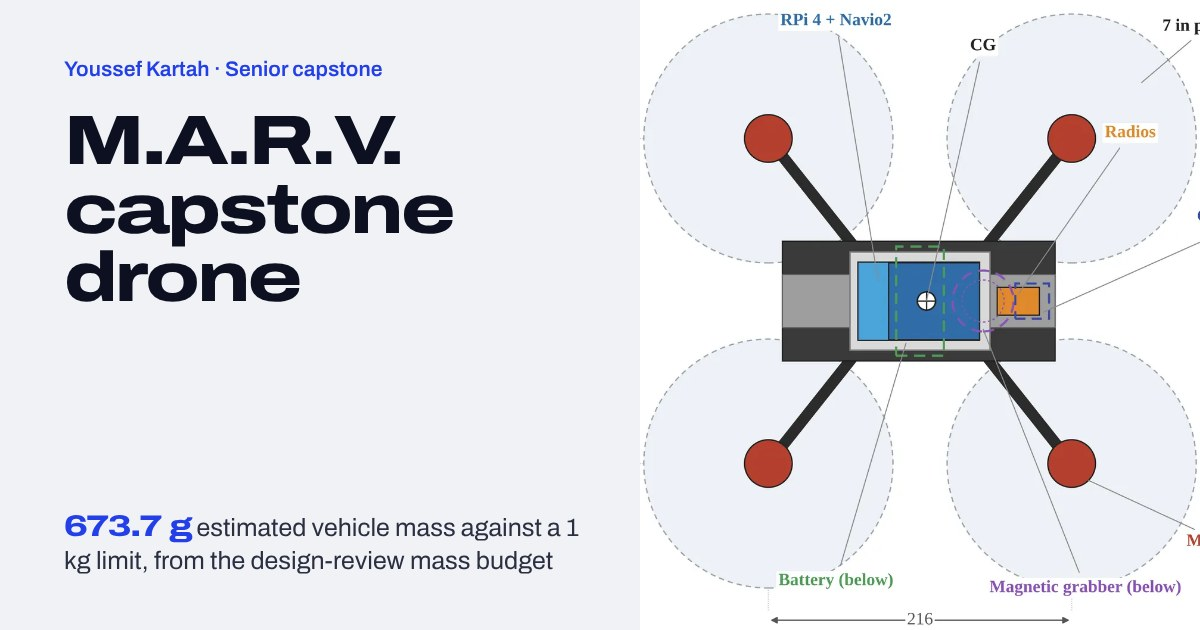
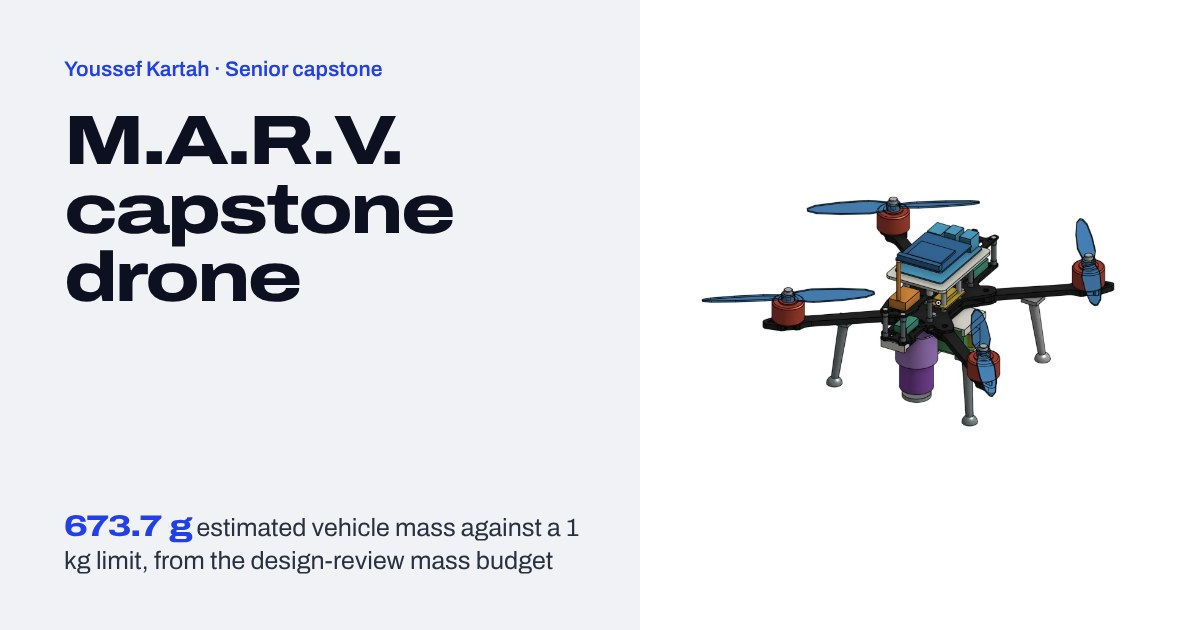
Show the 3D CAD render on the capstone project card
The Projects list now uses the colour 3D CAD model for M.A.R.V. instead of
the labelled top view. A project entry can set media.fit to "contain" to show
its picture whole; the link-preview card follows the same setting.

Claude-Session: https://claude.ai/code/session_01XsZJUqKnJXzTQVnQr3bDnq

diff --git a/docs/projects.html b/docs/projects.html
@@ -21,7 +21,7 @@
 <link rel="icon" href="assets/favicon.svg" type="image/svg+xml">
 <link rel="preload" href="assets/fonts/archivo-expanded.woff2" as="font" type="font/woff2" crossorigin>
 <link rel="preload" href="assets/fonts/archivo.woff2" as="font" type="font/woff2" crossorigin>
-<link rel="stylesheet" href="assets/css/site.css?v=88d9bf73">
+<link rel="stylesheet" href="assets/css/site.css?v=c364de0c">
 <script>
 document.documentElement.className = 'js';
 try { if (sessionStorage.getItem('go')) { sessionStorage.removeItem('go'); document.documentElement.classList.add('arriving'); } } catch (e) {}
@@ -77,7 +77,7 @@ try { if (sessionStorage.getItem('go')) { sessionStorage.removeItem('go'); docum
       <p class="meta"><span class="status status-progress"><b>In progress</b> <span>PDR and CDR done; risk matrix and QR software under way</span></span><span class="tools">Onshape and CAD · FDM printing in PLA · Raspberry Pi 4 and Navio2 · ArduPilot</span></p>
       <a class="pill" href="work/marv.html" data-go>Learn more<span class="vh"> about M.A.R.V. capstone drone</span><span class="pill-ar" aria-hidden="true"><svg class="ar" viewBox="0 0 24 24" aria-hidden="true"><path d="M5 12h13M13 6l6 6-6 6"/></svg></span></a>
     </div>
-    <div class="row-media"><img src="assets/media/marv-3d-top-1440.webp" srcset="assets/media/marv-3d-top-720.webp 720w, assets/media/marv-3d-top-1440.webp 1440w" sizes="(min-width: 900px) 42vw, 100vw" width="1440" height="1058" alt="Top view of the M.A.R.V. quadcopter CAD model with labels for the flight computer, battery, radios, camera, magnetic grabber, four motors and seven-inch propellers" loading="lazy" decoding="async"></div>
+    <div class="row-media contain"><img src="assets/media/marv-cad-1440.webp" srcset="assets/media/marv-cad-720.webp 720w, assets/media/marv-cad-1440.webp 1440w" sizes="(min-width: 900px) 42vw, 100vw" width="1440" height="841" alt="3D CAD model of the M.A.R.V. quadcopter in color: four motors with blue seven-inch propellers on a black carbon-fiber frame, the flight computer stacked on top, four landing legs, and the purple magnetic payload grabber hanging underneath" loading="lazy" decoding="async"></div>
   </div>
 </article>
 

diff --git a/docs/assets/css/site.css b/docs/assets/css/site.css
@@ -178,6 +178,8 @@ b,strong{font-weight:600}
 .pill-ar .ar{stroke-width:2.4}
 .row-media{position:relative;aspect-ratio:4/3;overflow:hidden;background:var(--ink)}
 .row-media img,.row-media video{width:100%;height:100%;object-fit:cover;transform:scale(1.001);transition:transform 1.1s var(--ease)}
+.row-media.contain{aspect-ratio:1708 / 998;background:#fff;box-shadow:0 20px 50px -30px rgba(12,16,32,.35)}
+.row-media.contain img{object-fit:contain}
 .row-media.draw{background:#fff;display:grid;place-items:center;padding:clamp(14px,2.4vw,32px);box-shadow:0 20px 50px -30px rgba(12,16,32,.35)}
 .row-media.draw svg{width:100%;height:100%;max-height:100%}
 .row-media.draw .chartcard{width:100%}

diff --git a/docs/work/applyai.html b/docs/work/applyai.html
@@ -21,7 +21,7 @@
 <link rel="icon" href="../assets/favicon.svg" type="image/svg+xml">
 <link rel="preload" href="../assets/fonts/archivo-expanded.woff2" as="font" type="font/woff2" crossorigin>
 <link rel="preload" href="../assets/fonts/archivo.woff2" as="font" type="font/woff2" crossorigin>
-<link rel="stylesheet" href="../assets/css/site.css?v=88d9bf73">
+<link rel="stylesheet" href="../assets/css/site.css?v=c364de0c">
 <script>
 document.documentElement.className = 'js';
 try { if (sessionStorage.getItem('go')) { sessionStorage.removeItem('go'); document.documentElement.classList.add('arriving'); } } catch (e) {}

diff --git a/docs/work/line-follower.html b/docs/work/line-follower.html
@@ -21,7 +21,7 @@
 <link rel="icon" href="../assets/favicon.svg" type="image/svg+xml">
 <link rel="preload" href="../assets/fonts/archivo-expanded.woff2" as="font" type="font/woff2" crossorigin>
 <link rel="preload" href="../assets/fonts/archivo.woff2" as="font" type="font/woff2" crossorigin>
-<link rel="stylesheet" href="../assets/css/site.css?v=88d9bf73">
+<link rel="stylesheet" href="../assets/css/site.css?v=c364de0c">
 <script>
 document.documentElement.className = 'js';
 try { if (sessionStorage.getItem('go')) { sessionStorage.removeItem('go'); document.documentElement.classList.add('arriving'); } } catch (e) {}

diff --git a/docs/work/marv.html b/docs/work/marv.html
@@ -21,7 +21,7 @@
 <link rel="icon" href="../assets/favicon.svg" type="image/svg+xml">
 <link rel="preload" href="../assets/fonts/archivo-expanded.woff2" as="font" type="font/woff2" crossorigin>
 <link rel="preload" href="../assets/fonts/archivo.woff2" as="font" type="font/woff2" crossorigin>
-<link rel="stylesheet" href="../assets/css/site.css?v=88d9bf73">
+<link rel="stylesheet" href="../assets/css/site.css?v=c364de0c">
 <script>
 document.documentElement.className = 'js';
 try { if (sessionStorage.getItem('go')) { sessionStorage.removeItem('go'); document.documentElement.classList.add('arriving'); } } catch (e) {}

diff --git a/docs/work/rocket-labs.html b/docs/work/rocket-labs.html
@@ -21,7 +21,7 @@
 <link rel="icon" href="../assets/favicon.svg" type="image/svg+xml">
 <link rel="preload" href="../assets/fonts/archivo-expanded.woff2" as="font" type="font/woff2" crossorigin>
 <link rel="preload" href="../assets/fonts/archivo.woff2" as="font" type="font/woff2" crossorigin>
-<link rel="stylesheet" href="../assets/css/site.css?v=88d9bf73">
+<link rel="stylesheet" href="../assets/css/site.css?v=c364de0c">
 <script>
 document.documentElement.className = 'js';
 try { if (sessionStorage.getItem('go')) { sessionStorage.removeItem('go'); document.documentElement.classList.add('arriving'); } } catch (e) {}

diff --git a/docs/work/roomly.html b/docs/work/roomly.html
@@ -21,7 +21,7 @@
 <link rel="icon" href="../assets/favicon.svg" type="image/svg+xml">
 <link rel="preload" href="../assets/fonts/archivo-expanded.woff2" as="font" type="font/woff2" crossorigin>
 <link rel="preload" href="../assets/fonts/archivo.woff2" as="font" type="font/woff2" crossorigin>
-<link rel="stylesheet" href="../assets/css/site.css?v=88d9bf73">
+<link rel="stylesheet" href="../assets/css/site.css?v=c364de0c">
 <script>
 document.documentElement.className = 'js';
 try { if (sessionStorage.getItem('go')) { sessionStorage.removeItem('go'); document.documentElement.classList.add('arriving'); } } catch (e) {}

diff --git a/docs/work/safran.html b/docs/work/safran.html
@@ -21,7 +21,7 @@
 <link rel="icon" href="../assets/favicon.svg" type="image/svg+xml">
 <link rel="preload" href="../assets/fonts/archivo-expanded.woff2" as="font" type="font/woff2" crossorigin>
 <link rel="preload" href="../assets/fonts/archivo.woff2" as="font" type="font/woff2" crossorigin>
-<link rel="stylesheet" href="../assets/css/site.css?v=88d9bf73">
+<link rel="stylesheet" href="../assets/css/site.css?v=c364de0c">
 <script>
 document.documentElement.className = 'js';
 try { if (sessionStorage.getItem('go')) { sessionStorage.removeItem('go'); document.documentElement.classList.add('arriving'); } } catch (e) {}

diff --git a/docs/work/school-projects.html b/docs/work/school-projects.html
@@ -21,7 +21,7 @@
 <link rel="icon" href="../assets/favicon.svg" type="image/svg+xml">
 <link rel="preload" href="../assets/fonts/archivo-expanded.woff2" as="font" type="font/woff2" crossorigin>
 <link rel="preload" href="../assets/fonts/archivo.woff2" as="font" type="font/woff2" crossorigin>
-<link rel="stylesheet" href="../assets/css/site.css?v=88d9bf73">
+<link rel="stylesheet" href="../assets/css/site.css?v=c364de0c">
 <script>
 document.documentElement.className = 'js';
 try { if (sessionStorage.getItem('go')) { sessionStorage.removeItem('go'); document.documentElement.classList.add('arriving'); } } catch (e) {}

diff --git a/docs/work/uav-builds.html b/docs/work/uav-builds.html
@@ -21,7 +21,7 @@
 <link rel="icon" href="../assets/favicon.svg" type="image/svg+xml">
 <link rel="preload" href="../assets/fonts/archivo-expanded.woff2" as="font" type="font/woff2" crossorigin>
 <link rel="preload" href="../assets/fonts/archivo.woff2" as="font" type="font/woff2" crossorigin>
-<link rel="stylesheet" href="../assets/css/site.css?v=88d9bf73">
+<link rel="stylesheet" href="../assets/css/site.css?v=c364de0c">
 <script>
 document.documentElement.className = 'js';
 try { if (sessionStorage.getItem('go')) { sessionStorage.removeItem('go'); document.documentElement.classList.add('arriving'); } } catch (e) {}

diff --git a/docs/404.html b/docs/404.html
@@ -21,7 +21,7 @@
 <link rel="icon" href="assets/favicon.svg" type="image/svg+xml">
 <link rel="preload" href="assets/fonts/archivo-expanded.woff2" as="font" type="font/woff2" crossorigin>
 <link rel="preload" href="assets/fonts/archivo.woff2" as="font" type="font/woff2" crossorigin>
-<link rel="stylesheet" href="assets/css/site.css?v=88d9bf73">
+<link rel="stylesheet" href="assets/css/site.css?v=c364de0c">
 <script>
 document.documentElement.className = 'js';
 try { if (sessionStorage.getItem('go')) { sessionStorage.removeItem('go'); document.documentElement.classList.add('arriving'); } } catch (e) {}

diff --git a/docs/index.html b/docs/index.html
@@ -21,7 +21,7 @@
 <link rel="icon" href="assets/favicon.svg" type="image/svg+xml">
 <link rel="preload" href="assets/fonts/archivo-expanded.woff2" as="font" type="font/woff2" crossorigin>
 <link rel="preload" href="assets/fonts/archivo.woff2" as="font" type="font/woff2" crossorigin>
-<link rel="stylesheet" href="assets/css/site.css?v=88d9bf73">
+<link rel="stylesheet" href="assets/css/site.css?v=c364de0c">
 <script>
 document.documentElement.className = 'js';
 try { if (sessionStorage.getItem('go')) { sessionStorage.removeItem('go'); document.documentElement.classList.add('arriving'); } } catch (e) {}
